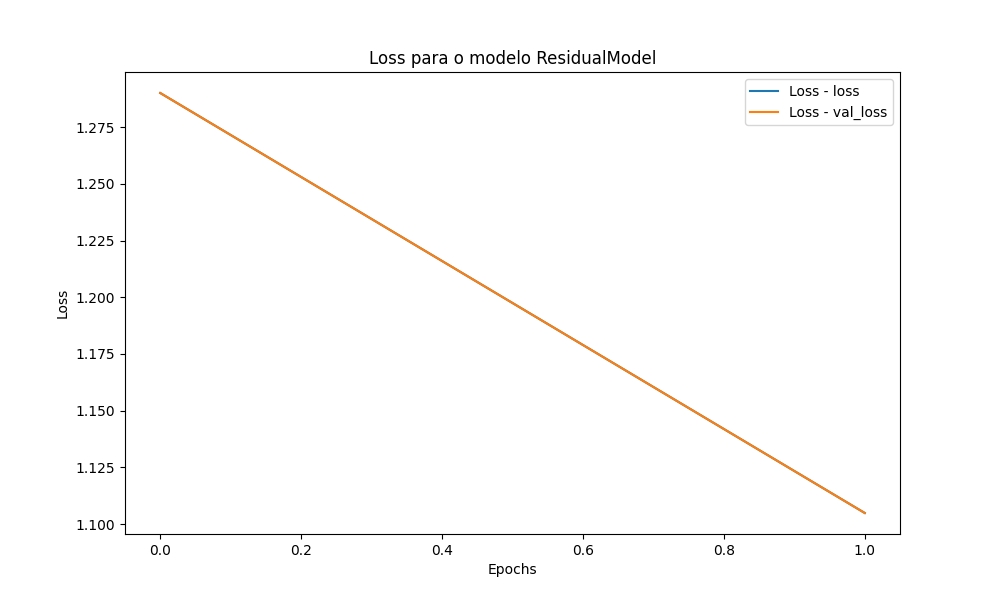
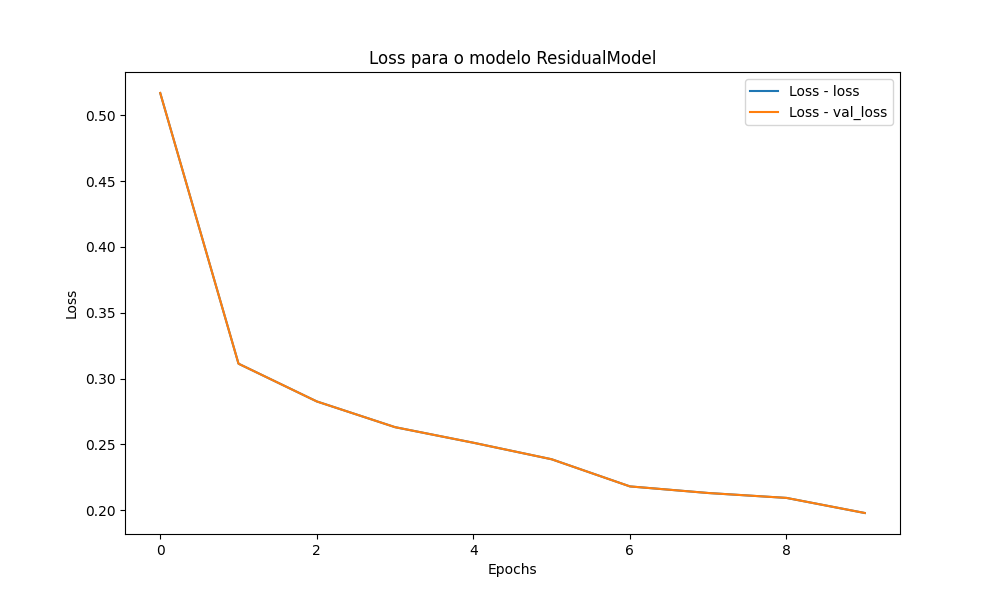
Create

diff --git a/Models/ResidualModel.py b/Models/ResidualModel.py
@@ -261,7 +261,7 @@ class ResidualModel(MetricsCalculator):
 
         for _, sub_directory in enumerate(list_class_path):
             print("Class {}".format(_))
-            for file_name in tqdm(glob.glob(os.path.join(sub_directory, file_extension))[0:100]):
+            for file_name in tqdm(glob.glob(os.path.join(sub_directory, file_extension))):
 
                 signal, _ = librosa.load(file_name, sr=self.sample_rate)
                 label = file_name.split('/')[-2].split('_')[0]

diff --git a/Models/Conformer.py b/Models/Conformer.py
@@ -279,7 +279,7 @@ class Conformer(MetricsCalculator):
 
         for _, sub_directory in enumerate(list_class_path):
             print("Class {}".format(_))
-            for file_name in tqdm(glob.glob(os.path.join(sub_directory, file_extension))[0:100]):
+            for file_name in tqdm(glob.glob(os.path.join(sub_directory, file_extension))):
 
                 signal, _ = librosa.load(file_name, sr=self.sample_rate)
                 label = file_name.split('/')[-2].split('_')[0]

diff --git a/Models/AST.py b/Models/AST.py
@@ -465,7 +465,7 @@ class AudioAST(MetricsCalculator):
 
         for _, sub_directory in enumerate(list_class_path):
             print("Class {}".format(_))
-            for file_name in tqdm(glob.glob(os.path.join(sub_directory, file_extension))[0:100]):
+            for file_name in tqdm(glob.glob(os.path.join(sub_directory, file_extension))):
 
                 signal, _ = librosa.load(file_name, sr=self.sample_rate)
                 label = file_name.split('/')[-2].split('_')[0]

diff --git a/Models/MLP.py b/Models/MLP.py
@@ -223,7 +223,7 @@ class AudioDense(MetricsCalculator):
 
         for _, sub_directory in enumerate(list_class_path):
             print("Class Load: {}".format(_))
-            for file_name in tqdm(glob.glob(os.path.join(sub_directory, file_extension))[0:100]):
+            for file_name in tqdm(glob.glob(os.path.join(sub_directory, file_extension))):
 
                 signal, _ = librosa.load(file_name, sr=self.sample_rate)
 

diff --git a/Models/LSTM.py b/Models/LSTM.py
@@ -228,7 +228,7 @@ class AudioLSTM(MetricsCalculator):
 
         for _, sub_directory in enumerate(list_class_path):
             print("Class Load: {}".format(_))
-            for file_name in tqdm(glob.glob(os.path.join(sub_directory, file_extension))[0:100]):
+            for file_name in tqdm(glob.glob(os.path.join(sub_directory, file_extension))):
 
                 signal, _ = librosa.load(file_name, sr=self.sample_rate)
 

diff --git a/Models/Wav2Vec2.py b/Models/Wav2Vec2.py
@@ -219,7 +219,7 @@ class AudioWav2Vec2(MetricsCalculator):
 
         for _, sub_directory in enumerate(list_class_path):
 
-            for file_name in tqdm(glob.glob(os.path.join(sub_directory, file_extension))[0:100]):
+            for file_name in tqdm(glob.glob(os.path.join(sub_directory, file_extension))):
 
                 signal, _ = librosa.load(file_name, sr=self.sample_rate)
 

diff --git a/EvaluationModels.py b/EvaluationModels.py
@@ -42,9 +42,9 @@ DEFAULT_MATRIX_LABEL_FONT_SIZE = 12
 DEFAULT_MATRIX_TITLE_FONT_SIZE = 14
 DEFAULT_SHOW_PLOT = False
 DEFAULT_DATASET_DIRECTORY = "Dataset/"
-DEFAULT_NUMBER_EPOCHS = 2
+DEFAULT_NUMBER_EPOCHS = 10
 DEFAULT_BATCH_SIZE = 32
-DEFAULT_NUMBER_SPLITS = 2
+DEFAULT_NUMBER_SPLITS = 5
 DEFAULT_LOSS = 'sparse_categorical_crossentropy'
 DEFAULT_SAMPLE_RATE = 8000
 DEFAULT_OVERLAP = 2
